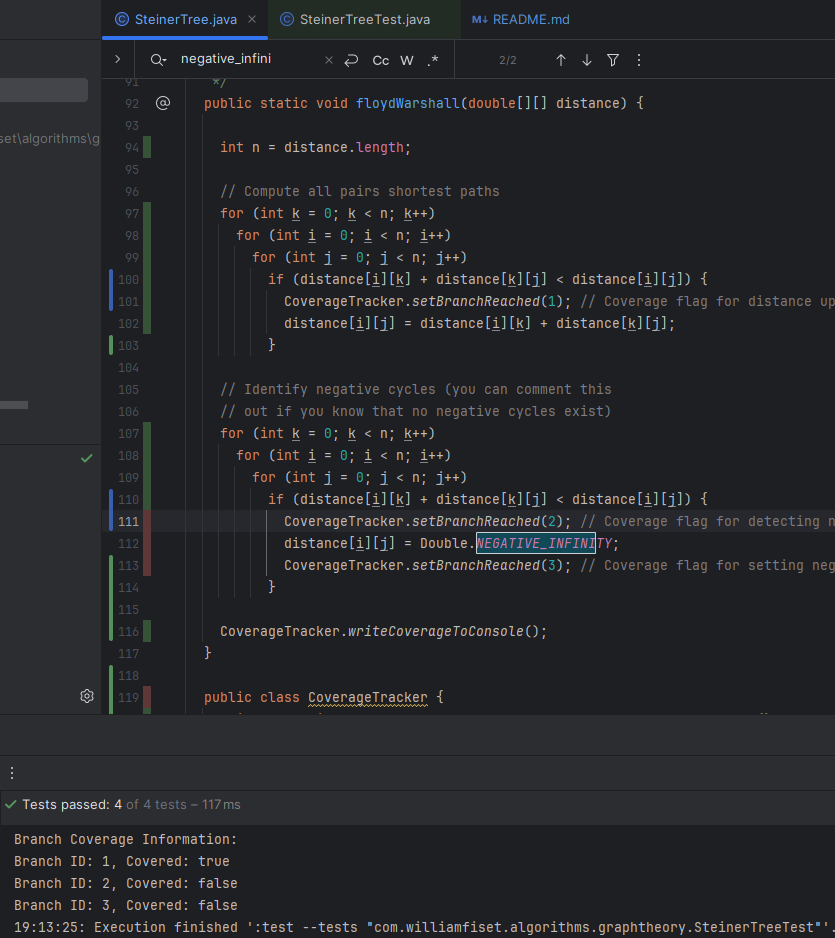
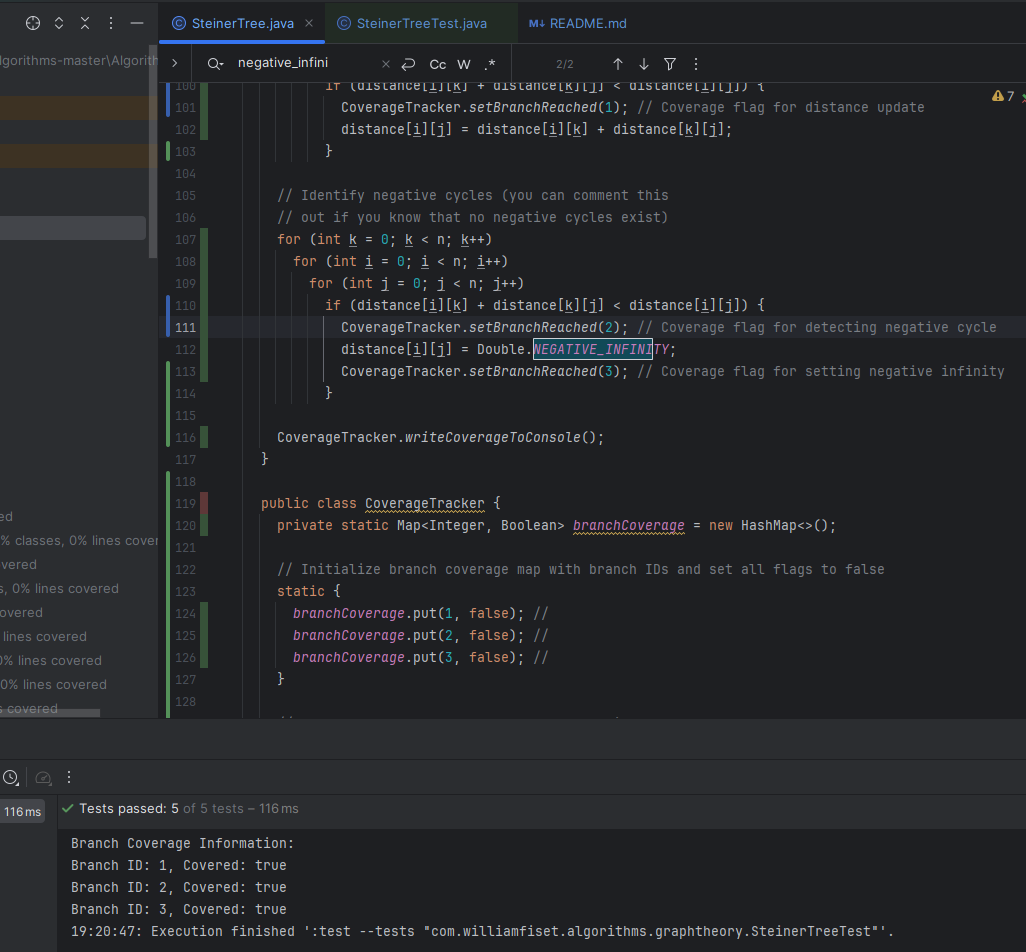
Updated readme

diff --git a/README.md b/README.md
@@ -1,41 +1,206 @@
-## Work done in mt_branch1:
+# Report for Assignment 1
 
-The `ArrayStack` class contains the `push` function [here](src/main/java/com/williamfiset/algorithms/datastructures/stack/ArrayStack.java). <br>
-The `ArrayStackTest` class contains the test for push, called: `testPush` [here](src/test/java/com/williamfiset/algorithms/datastructures/stack/ArrayStackTest.java).
-<br><br>
-In the image below, we’re checking coverage for testPush through the intellij coverage tester. <br><br>
+## Project chosen
+
+Name: williamfiset/Algorithms
+
+URL: https://github.com/williamfiset/Algorithms
+
+Number of lines of code and the tool used to count it: 31 kloc, lizard
+
+Programming language: Java
+
+## Coverage measurement
+
+### Existing tool
+
+The tool that was used was the built in Intellij Coverage tool. We used the tool on the entire tests folder.
+
+<Show the coverage results provided by the existing tool with a screenshot>
+
 ![no alt](readMeImages/branch1img1.png)
+# work by Michael Tedeev
 
-We can see initially it's 2/3rds covered. as size == capacity is not covered (this can be seen with the red and green lines)
-<br><br>
-In the image below, we’re checking coverage with our own tool, and I have the same output 2/3rds.
+### Your own coverage tool
+
+
+
+Fuction name: push();
+
+https://github.com/Te-Michael/Algorithms/commit/ae6de0d69f88bf22168d01f29e1e3aba0c443f8a
+<Provide a screenshot of the coverage results output by the instrumentation>
 ![no alt](readMeImages/branch1img2.png)
-<br> <br>
-In the image below, we added the testPush function to improve coverage. We do this by checking whether the  size == capacity which wasn’t checked before. This increases coverage to 3/3 (100%)<br>
-![no alt](readMeImages/branch1img3.png)
-<br><br>
-In the image below, we can see that the built-in tool also states 100% coverage
-![no alt](readMeImages/branch1img4.png)
+Fuction name: floydWarshall();
 
-## Work done in mt_branch2:
+https://github.com/Te-Michael/Algorithms/commit/95981628cbf280dfe113873be1c339e3bb7ea790
+![no alt](readMeImages/branch2img1.png)
+## Coverage improvement
 
-The `SteinerTree` class contains the `floydWarshall` function [here](src/main/java/com/williamfiset/algorithms/graphtheory/SteinerTree.java). <br>
-The `SteinerTreeTest` class contains the tests for the Steiner Trees [here](src/test/java/com/williamfiset/algorithms/graphtheory/SteinerTreeTest.java).
-<br><br>
-Within the floydWarshall function we need to check whether the steiner tree has a negative cycle, since negative cycles can invalidate any distance calculation.
-<br><br>
-as seen in the image below, when tested with intellij coverage testing, the entire function is covered, except for the check for the negative cycle.
+### Individual tests
+
+<The following is supposed to be repeated for each group member>
+
+<Group member name>
+
+testPush();<br>
+
+https://github.com/Te-Michael/Algorithms/commit/ae6de0d69f88bf22168d01f29e1e3aba0c443f8a
+
+old coverage:
+![no alt](readMeImages/branch1img2.png)
 <br>
+new coverage:
+![no alt](readMeImages/branch1img3.png)
+
+<br><br>
+The reason the coverage was improved was due to the implementation of testPush for arrayStack. When the stack reached 16 it is supposed to double in capacity. However, nothing was testing that clause. The function testPush tests that case, and hence covers it. it goes from 2/3rds covered to 3/3rds covered
+<br><br>
+
+testNegativeCycle(); <br>
+https://github.com/Te-Michael/Algorithms/commit/95981628cbf280dfe113873be1c339e3bb7ea790
+<br>
+old coverage:
 ![no alt](readMeImages/branch2img1.png)
 <br>
-In the image below, we’re checking coverage with our own tool and we get 1/3rd coverage on the final iteration, since it doesn't check for negative cycles nor for setting negative infinity
-<br>
+new coverage:
 ![no alt](readMeImages/branch2img2.png)
-<br><br>
-In the image below, you can see an added test `testNegativeCycle` which introduces a negative cycle to be tested to improve coverage
-<br><br>
-![no alt](readMeImages/branch2img3.png)
-<br><br>
-With the addition of this function, the coverage has been improved to 100% both in our own tool and in intellij coverage tool as can be seen in the image below:
 <br>
-![no alt](readMeImages/branch2img4.png)
+The coverage here was improved due to the implementation of testNegativeCycle(); In the source code, there is a special case if the MST-like datastructure has a negative cycle as that would invalidate the measurment. So my test covers that , whereas before it wasnt covered. The coverage goes from 1/3rd to 3/3rds
+
+# work by Oliwer Dembicki
+## Coverage measurement
+
+
+### Your own coverage tool
+
+<The following is supposed to be repeated for each group member>
+
+<Group member name>
+
+<Function 1 name>
+
+<Show a patch (diff) or a link to a commit made in your forked repository that shows the instrumented code to gather coverage measurements>
+
+<Provide a screenshot of the coverage results output by the instrumentation>
+
+<Function 2 name>
+
+<Provide the same kind of information provided for Function 1>
+
+## Coverage improvement
+
+### Individual tests
+
+<The following is supposed to be repeated for each group member>
+
+<Group member name>
+
+<Test 1>
+
+<Show a patch (diff) or a link to a commit made in your forked repository that shows the new/enhanced test>
+
+<Provide a screenshot of the old coverage results (the same as you already showed above)>
+
+<Provide a screenshot of the new coverage results>
+
+<State the coverage improvement with a number and elaborate on why the coverage is improved>
+
+<Test 2>
+
+<Provide the same kind of information provided for Test 1>
+
+
+# work by Alun Arkananta
+## Coverage measurement
+
+### Your own coverage tool
+
+<The following is supposed to be repeated for each group member>
+
+<Group member name>
+
+<Function 1 name>
+
+<Show a patch (diff) or a link to a commit made in your forked repository that shows the instrumented code to gather coverage measurements>
+
+<Provide a screenshot of the coverage results output by the instrumentation>
+
+<Function 2 name>
+
+<Provide the same kind of information provided for Function 1>
+
+## Coverage improvement
+
+### Individual tests
+
+<The following is supposed to be repeated for each group member>
+
+<Group member name>
+
+<Test 1>
+
+<Show a patch (diff) or a link to a commit made in your forked repository that shows the new/enhanced test>
+
+<Provide a screenshot of the old coverage results (the same as you already showed above)>
+
+<Provide a screenshot of the new coverage results>
+
+<State the coverage improvement with a number and elaborate on why the coverage is improved>
+
+<Test 2>
+
+<Provide the same kind of information provided for Test 1>
+
+
+# work by Hugo Sokolowski-Katzer
+## Coverage measurement
+
+### Your own coverage tool
+
+< The following is supposed to be repeated for each group member>
+
+< Group member name>
+
+<Function 1 name>
+
+<Show a patch (diff) or a link to a commit made in your forked repository that shows the instrumented code to gather coverage measurements>
+
+< Provide a screenshot of the coverage results output by the instrumentation>
+
+<Function 2 name>
+
+<Provide the same kind of information provided for Function 1>
+
+## Coverage improvement
+
+### Individual tests
+
+< The following is supposed to be repeated for each group member>
+
+< Group member name>
+
+<Test 1>
+
+<Show a patch (diff) or a link to a commit made in your forked repository that shows the new/enhanced test>
+
+<Provide a screenshot of the old coverage results (the same as you already showed above)>
+
+< Provide a screenshot of the new coverage results>
+
+< State the coverage improvement with a number and elaborate on why the coverage is improved>
+
+<Test 2>
+
+<Provide the same kind of information provided for Test 1>
+
+### Overall
+
+<Provide a screenshot of the old coverage results by running an existing tool (the same as you already showed above)>
+
+< Provide a screenshot of the new coverage results by running the existing tool using all test modifications made by the group>
+
+
+## Statement of individual contributions
+
+< describe what each group member did>
+
